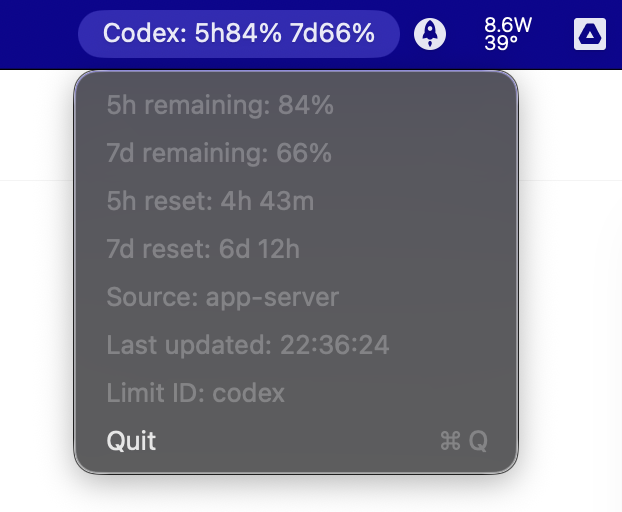
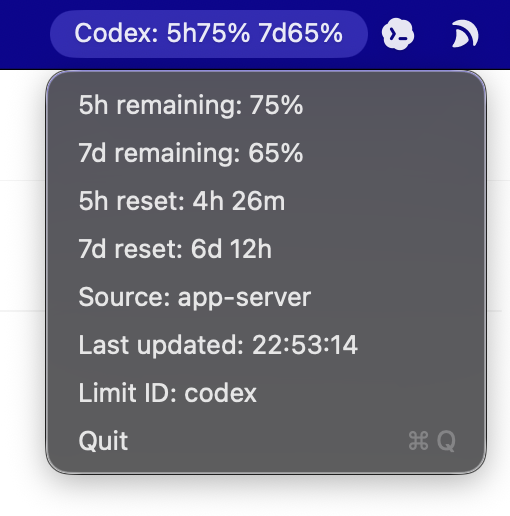
更新 README 运行截图

diff --git a/docs/codex-operation-records/2026-06-30-22-58-23-final-screenshot.md b/docs/codex-operation-records/2026-06-30-22-58-23-final-screenshot.md
@@ -1,0 +1,14 @@
+# Codex 操作记录
+
+- 时间戳：2026-06-30 22:58:23 CST
+- 用户目标：将 README 首页截图替换为菜单文字对比度改善后的新截图，并完成收尾。
+- 已阅读的重要文件：
+  - `gauge.png`
+  - `README.md`
+- 做过的修改：
+  - 使用用户提供的新截图覆盖 `gauge.png`。
+  - README 已继续通过 `![CodexTopGuage_Mac 运行截图](gauge.png)` 和 `![CodexTopGuage_Mac screenshot](gauge.png)` 引用该文件，因此无需修改 Markdown 链接。
+- 关键决策与原因：
+  - 保持文件名 `gauge.png` 不变，避免 README 和历史说明中的图片路径变动。
+- 未完成事项 / 风险 / 后续建议：
+  - 当前项目功能和文档已达到用户确认的收工状态。
